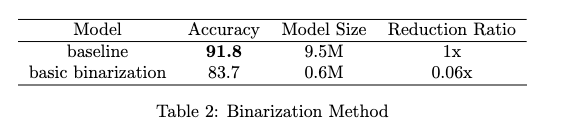
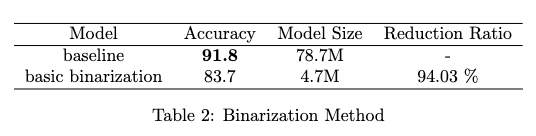
fix: runtime usage, model size and  data

Changed region(s): [[0.0299, 0.1176, 0.9851, 0.6765], [0.2687, 0.7353, 0.7164, 0.9118]]

diff --git a/utils/utils.py b/utils/utils.py
@@ -1,35 +1,32 @@
 import torch
-import os
-import psutil
+import torch.autograd.profiler as profiler
+from torch_api import *
 
-# Count how many trainable weights the model
+# Count how many trainable weights the model has
 def count_parameters(model):
     return sum(p.numel() for p in model.parameters() if p.requires_grad)
 
-# Count how much large memory this model uses
-def count_memory_size(model):
-    memory_dict = {torch.float32:4, torch.float64:8}
-    return sum(p.numel()*memory_dict[p.data.dtype] for p in model.parameters() if p.requires_grad)
+# byte to MB conversion
+def bytes_to_MB(bytes):
+    MB = bytes / (1024 * 1024)
+    return MB
 
-def get_model_size(model):
-    # Save model to a temporary file
-    torch.save(model.state_dict(), "../models/temp.pth")
-    # Get the size of the temporary file
-    model_size = os.path.getsize("../models/temp.pth")
-    # Delete the temporary file
-    os.remove("../models/temp.pth")
-    return model_size
+# Count how large memory this model uses
+def count_memory_size(model, mtype=None, mname=None):
+    model.initialize(model, mtype, mname)
+    total_memory = sum(
+        p.numel() * (get_default_dtype(model, mname, p)) for p in model.parameters() if p.requires_grad
+    )
+    total_memory = round(bytes_to_MB(total_memory), 1)
+    print(f"{mname}: ", total_memory, "M")
 
-def estimate_runtime_memory(model, input_shape):
-    # Estimate runtime memory using psutil to monitor memory usage during inference
-    process = psutil.Process(os.getpid())
-    before_memory = process.memory_info().rss / 1024 / 1024  # Memory usage before inference
-    
-    # Perform inference
-    with torch.no_grad():
-        model.eval()
-        input_tensor = torch.randn(input_shape).to(next(model.parameters()).device)
-        _ = model(input_tensor)
-    after_memory = process.memory_info().rss / 1024 / 1024  # Memory usage after inference
-    runtime_memory = after_memory - before_memory  # Estimated runtime memory
-    return runtime_memory
+# Count run time usage
+def get_run_time(model, inputs, masks, mtype=None, mname=None):
+    model.initialize(model, mtype, mname)
+    model(inputs, masks)
+    with profiler.profile(with_stack=False,
+                          profile_memory=True,
+                          use_cuda=torch.cuda.is_available(),
+                          with_flops=True) as prof:
+        out_prob = model(inputs, masks)
+    print(prof.key_averages(group_by_stack_n=5).table(sort_by='self_cpu_time_total'))

diff --git a/torch_api.py b/torch_api.py
@@ -1,4 +1,4 @@
-from .transformer import *
+from quantization.transformer import *
 from torch.quantization.qconfig import QConfig
 from torch.quantization.fake_quantize import FusedMovingAvgObsFakeQuantize
 from torch.quantization.observer import MovingAverageMinMaxObserver, MovingAveragePerChannelMinMaxObserver
@@ -37,7 +37,6 @@ class PositionalWiseFFN(nn.Module):
     def forward(self, x):
         return self.w_2(self.dropout(F.relu(self.w_1(x))))
 """
-
 
 class PositionalWiseFFNQuantization(nn.Module):
     def __init__(self, d_model, d_ff, dropout=0.1):
@@ -193,6 +192,38 @@ class Classifier(nn.Module):
 
 """
 
+# def cmodel(variable):
+#     if "baseline" in variables:
+
+# variables = {
+#     "baseline": torch.load("models/baseline_best.pth", map_location=torch.device(device)),
+#     "quantized": torch.load("models/quantized_best.pth", map_location=torch.device(device)),
+#     "binarized": torch.load("models/binarized_best.pth", map_location=torch.device(device)),
+#     "optmized": torch.load("models/optimized_best.pth", map_location=torch.device(device))
+# }
+
+def get_default_dtype(nn, flag, data):
+    """
+    Initializes a neural network weights with it's unique flag and returns the data type. 
+
+    Takes neural network weights, flag and data as argument.
+
+    args:
+
+        nn (class): A class object representing the neural network model. Stores the model weight and provides access to the dtype of data attribute.
+        flag (str, optional): Should be a string. Initializes model with unique identity.
+        data: Any type of dtype representation in pytorch.
+
+    """
+    memory_dict = {torch.float32: 4, torch.int8: 1}
+    dtype = {
+        "baseline": 1,
+        "quantized": 0.25,
+        "binarized": 0.06,
+        "optimized": 0.06
+    }
+
+    return (memory_dict[data.data.dtype] * dtype[flag])
 
 def quantization_classifier_training(d_model, d_hidden, n_class, fused_modules=None, k=(8, 8)):
     model = ClassifierQuant(d_model, d_hidden, n_class)

diff --git a/check_runtime.py b/check_runtime.py
@@ -1,0 +1,63 @@
+import torch
+import torch.nn as nn
+import math
+from torch.autograd import Variable
+from torch.nn import functional as F
+from transformers import AutoTokenizer
+from utils.constants import *
+import torch.autograd.profiler as profiler
+
+from quantization.transformer import Transformer
+from utils.utils import *
+
+device = torch.device("cuda" if torch.cuda.is_available() else "cpu")
+
+
+
+if __name__ == "__main__":
+    
+    tokenizer = AutoTokenizer.from_pretrained("bert-base-uncased")
+
+    model = Transformer(4,
+                        tokenizer.vocab_size,
+                        BASELINE_MODEL_NUMBER_OF_LAYERS,
+                        BASELINE_MODEL_NUMBER_OF_HEADS,
+                        BASELINE_MODEL_DIM).to(device)
+    
+    inputs = torch.rand(1, 512, device=device).int()  # assume one sentence only?
+    masks = torch.rand(1, 512, device=device).int()
+    
+
+    # Load baseline mode
+    baseline = torch.load("models/baseline_best.pth", map_location=torch.device(device))
+    get_run_time(model, inputs, masks, baseline, "baseline")
+    
+
+    # Load Quantize model
+    quantized = torch.load("models/quantized_best.pth", map_location=torch.device(device))
+    get_run_time(model, inputs, masks, quantized, "quantized")
+
+
+    # Load Binarize model
+    binarized = torch.load("models/binarized_best.pth", map_location=torch.device(device))
+    get_run_time(model, inputs, masks, binarized, "binarized")
+
+
+    # Load optimized model
+    optimized = torch.load("models/optimized_best.pth", map_location=torch.device(device))
+    get_run_time(model, inputs, masks, optimized, "optmized")
+
+    # Get model size
+    print("\nModel size - ")
+    count_memory_size(model, baseline, "baseline")
+    count_memory_size(model, quantized, "quantized")
+    count_memory_size(model, binarized, "binarized")
+    count_memory_size(model, optimized, "optimized")
+
+
+
+
+
+
+
+

diff --git a/quantization/binarize.py b/quantization/binarize.py
@@ -161,10 +161,11 @@ def binarize(model, pattern, binarize_layer='basic', skip_final=False, qk_only=F
     Recursively replace linear layers with binary layers
     ---------
     Arguments:
-    model      - Model to be binarized
-    pattern    - Binarization pattern
-    skip_final - whether to leave final layer unbinarized
-    qk_only    - whether to only binarize Q net and K net, leaving V net
+    model           - Model to be binarized
+    pattern         - Binarization pattern
+    binarize_layer  - either 'basic' or 'optmized'
+    skip_final      - whether to leave final layer unbinarized
+    qk_only         - whether to only binarize Q net and K net, leaving V net
     ---------
     No return, the original model is binarized
     """
@@ -207,4 +208,4 @@ def binarize(model, pattern, binarize_layer='basic', skip_final=False, qk_only=F
 
             if nn.Linear in layer_types:
                 binarize(layer, 'ALL', binarize_layer, skip_final, qk_only, qv_only, kv_only)
-    return
+    return model

diff --git a/quantization/transformer.py b/quantization/transformer.py
@@ -3,7 +3,8 @@ import torch.nn as nn
 import math
 from torch.autograd import Variable
 from torch.nn import functional as F
-
+from .quantize import quantizer
+from .binarize import binarize
 device = torch.device("cuda" if torch.cuda.is_available() else "cpu")
 
 class Transformer(nn.Module):
@@ -49,6 +50,17 @@ class Transformer(nn.Module):
         self.n_layers = n_layers
 
         self.init_params()
+    
+    # F initialization of quantization type on transformer during runtime memory check
+    def initialize(self, model, _, mtype):
+        if(mtype == "baseline"):
+            pass
+        elif(mtype == "quantized"):
+            _ = quantizer(model)
+        elif(mtype == "binarized"):
+            _ = binarize(model, pattern='ALL', binarize_layer='basic')
+        elif(mtype == "optmized"):
+            _ = binarize(model, pattern='ALL', binarize_layer='optimize')
 
     def forward(self, x, mask=None):
         embeddings = self.input_embeddings(x)

diff --git a/train_script.py b/train_script.py
@@ -85,9 +85,9 @@ def create_model(vocab_size, quant_type=None, quant_method=None, bit_num=None, q
         assert bit_num is None, f"Bit number should not be specified in binarization, got {bit_num}!"
         
         if quant_pattern == 'ALL_QK':
-             binarize(model, 'ALL', quant_method, skip_final=True, kv_only=True)
+             model = binarize(model, 'ALL', quant_method, skip_final=True, kv_only=True)
         else:
-            binarize(model, quant_pattern, quant_method, skip_final=True)
+            model = binarize(model, quant_pattern, quant_method, skip_final=True)
         
         print(f"INFO: Creating binarized transformer with using {quant_method} binarize algorithm, {quant_pattern} of whole model get binarized!")
     return model
